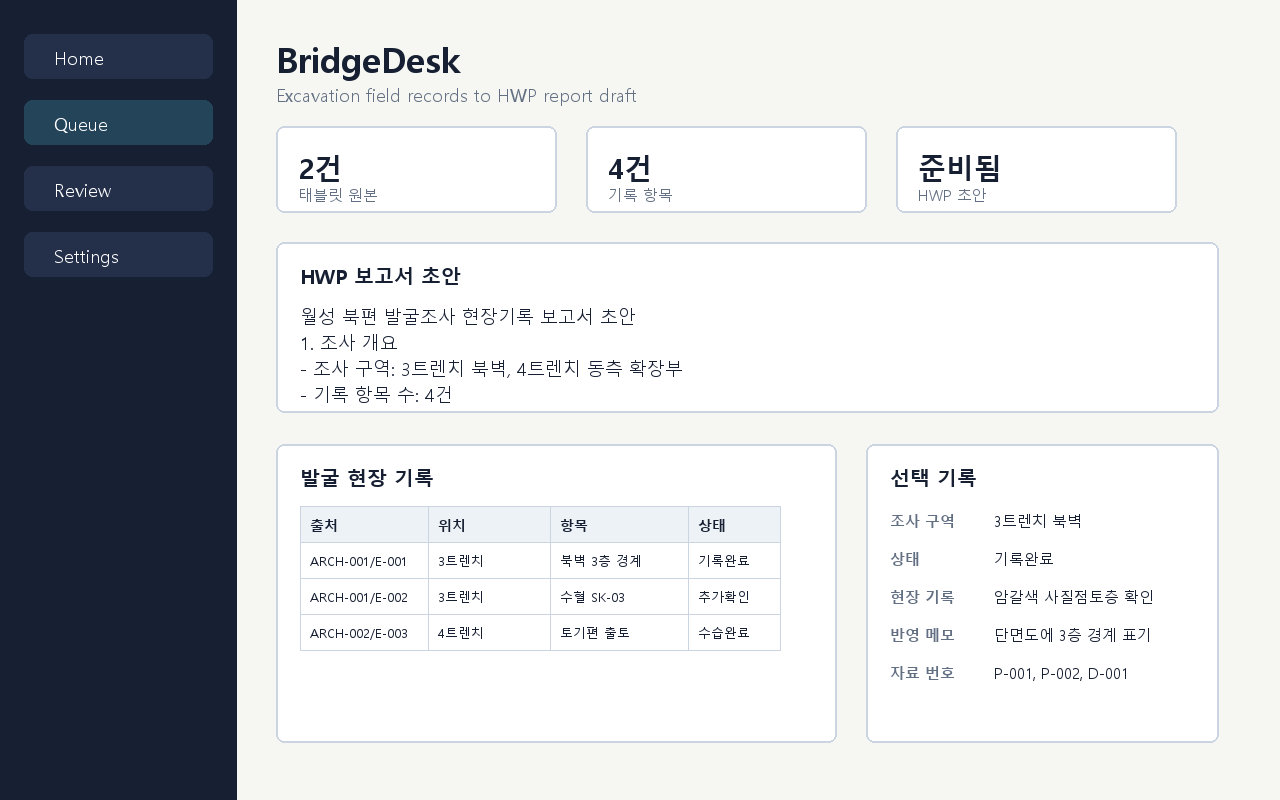
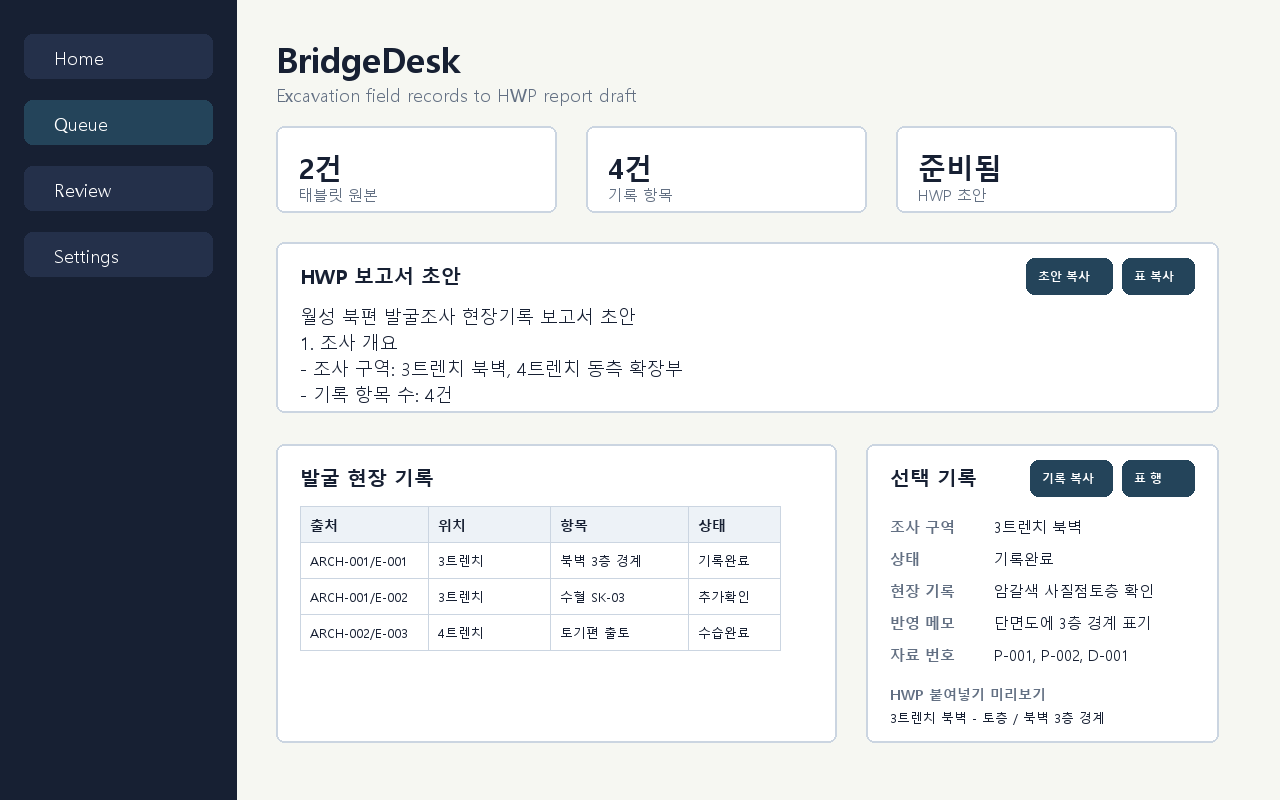
Add BridgeDesk clipboard copy workflow

diff --git a/tools/bridgedesk/compatdesk/app.py b/tools/bridgedesk/compatdesk/app.py
@@ -9,7 +9,12 @@ from pathlib import Path
 from .field_data import DEFAULT_TABLET_INBOX_PATH, ReportFinding, build_report_context, load_tablet_submissions
 from .layout_policy import LayoutPolicy, LayoutProfile, NavigationPattern
 from .models import DETAIL_FIELDS, NAV_ACTIONS, field_meta
-from .report_export import render_report_text
+from .report_export import (
+    render_finding_clipboard_text,
+    render_finding_table_row,
+    render_findings_table_text,
+    render_report_text,
+)
 from .theme import Theme, apply_theme
 
 
@@ -53,7 +58,12 @@ class BridgeDeskApp(tk.Tk):
         self.list_title: ttk.Label
         self.detail_title: ttk.Label
         self.report_title: ttk.Label
+        self.report_header: ttk.Frame
         self.report_text: tk.Text
+        self.detail_header: ttk.Frame
+        self.copy_title: ttk.Label
+        self.copy_text: tk.Text
+        self.clipboard_label: ttk.Label
         self.tree_scroll_x: ttk.Scrollbar
         self.tree = self._build_list_panel()
         self._build_header()
@@ -75,7 +85,7 @@ class BridgeDeskApp(tk.Tk):
             text="태블릿 발굴 기록을 HWP 보고서 초안으로 정리",
             style="Subtle.TLabel",
         ).grid(row=1, column=0, sticky="w", pady=(4, 0))
-        ttk.Button(self.header, text="Sync", style="Accent.TButton", command=self._sync_detail).grid(row=0, column=1, rowspan=2, sticky="e")
+        ttk.Button(self.header, text="새로고침", style="Accent.TButton", command=self._sync_detail).grid(row=0, column=1, rowspan=2, sticky="e")
         configure_grid_weight(self.header, row=0, column=0)
 
     def _build_metrics(self) -> None:
@@ -93,8 +103,13 @@ class BridgeDeskApp(tk.Tk):
             self.metrics.grid_columnconfigure(index, weight=1, uniform="metrics")
 
     def _build_report_panel(self) -> None:
-        self.report_title = ttk.Label(self.report_panel, text="HWP 보고서 초안", style="Surface.TLabel")
+        self.report_header = ttk.Frame(self.report_panel, style="Surface.TFrame")
+        self.report_header.grid(row=0, column=0, sticky="ew")
+        self.report_title = ttk.Label(self.report_header, text="HWP 보고서 초안", style="Surface.TLabel")
         self.report_title.grid(row=0, column=0, sticky="w")
+        ttk.Button(self.report_header, text="초안 복사", command=self._copy_report).grid(row=0, column=1, sticky="e", padx=(8, 0))
+        ttk.Button(self.report_header, text="표 복사", command=self._copy_all_table).grid(row=0, column=2, sticky="e", padx=(8, 0))
+        self.report_header.grid_columnconfigure(0, weight=1)
         self.report_text = tk.Text(
             self.report_panel,
             height=7,
@@ -123,8 +138,13 @@ class BridgeDeskApp(tk.Tk):
         return tree
 
     def _build_detail_panel(self) -> None:
-        self.detail_title = ttk.Label(self.detail_panel, text="선택 기록", style="Surface.TLabel")
+        self.detail_header = ttk.Frame(self.detail_panel, style="Surface.TFrame")
+        self.detail_header.grid(row=0, column=0, columnspan=2, sticky="ew")
+        self.detail_title = ttk.Label(self.detail_header, text="선택 기록", style="Surface.TLabel")
         self.detail_title.grid(row=0, column=0, sticky="w")
+        ttk.Button(self.detail_header, text="기록 복사", command=self._copy_selected_finding).grid(row=0, column=1, sticky="e", padx=(8, 0))
+        ttk.Button(self.detail_header, text="표 행 복사", command=self._copy_selected_table_row).grid(row=0, column=2, sticky="e", padx=(8, 0))
+        self.detail_header.grid_columnconfigure(0, weight=1)
         for index, field in enumerate(DETAIL_FIELDS, start=1):
             caption = ttk.Label(self.detail_panel, text=field_meta(field).label, style="Muted.Surface.TLabel")
             value = ttk.Label(self.detail_panel, text="", style="Surface.TLabel", wraplength=320)
@@ -132,11 +152,27 @@ class BridgeDeskApp(tk.Tk):
             value.grid(row=index, column=1, sticky="nw")
             self.detail_captions[field] = caption
             self.detail_labels[field] = value
+        self.copy_title = ttk.Label(self.detail_panel, text="HWP 붙여넣기 미리보기", style="Muted.Surface.TLabel")
+        self.copy_text = tk.Text(
+            self.detail_panel,
+            height=7,
+            wrap="word",
+            borderwidth=0,
+            highlightthickness=1,
+            relief="flat",
+            font=("Malgun Gothic", 9),
+            foreground=self.theme.text,
+            background=self.theme.surface,
+            highlightbackground=self.theme.border,
+        )
         self.detail_panel.grid_columnconfigure(1, weight=1)
 
     def _build_status(self) -> None:
         self.profile_label = ttk.Label(self.status, text="", style="Subtle.TLabel")
         self.profile_label.grid(row=0, column=0, sticky="w")
+        self.clipboard_label = ttk.Label(self.status, text="복사 대기", style="Subtle.TLabel")
+        self.clipboard_label.grid(row=0, column=1, sticky="e")
+        self.status.grid_columnconfigure(0, weight=1)
 
     def _handle_resize(self, event: tk.Event[object]) -> None:
         if event.widget is not self:
@@ -246,12 +282,12 @@ class BridgeDeskApp(tk.Tk):
 
     def _layout_panels(self, profile: LayoutProfile) -> None:
         inset = profile.padding
-        self.report_title.grid_configure(padx=inset, pady=(inset, profile.gap // 2))
+        self.report_header.grid_configure(padx=inset, pady=(inset, profile.gap // 2))
         self.report_text.grid_configure(padx=inset, pady=(0, inset))
         self.list_title.grid_configure(padx=inset, pady=(inset, profile.gap // 2))
         self.tree.grid_configure(padx=inset, pady=(0, inset))
         self.tree_scroll_x.grid_configure(padx=inset, pady=(0, inset))
-        self.detail_title.grid_configure(padx=inset, pady=(inset, profile.gap // 2))
+        self.detail_header.grid_configure(padx=inset, pady=(inset, profile.gap // 2))
         ttk.Style(self).configure("Treeview", rowheight=profile.touch_target)
 
     def _layout_detail(self, profile: LayoutProfile) -> None:
@@ -263,6 +299,9 @@ class BridgeDeskApp(tk.Tk):
                 caption.grid(row=index * 2 - 1, column=0, sticky="nw", padx=inset, pady=(profile.gap // 2, 0))
                 label.grid(row=index * 2, column=0, sticky="new", padx=inset, pady=(2, profile.gap // 3))
                 label.configure(wraplength=max(260, profile.width - profile.navigation_size - 80))
+            copy_row = len(fields) * 2 + 1
+            self.copy_title.grid(row=copy_row, column=0, sticky="w", padx=inset, pady=(profile.gap, 2))
+            self.copy_text.grid(row=copy_row + 1, column=0, sticky="nsew", padx=inset, pady=(0, inset))
             self.detail_panel.grid_columnconfigure(0, weight=1)
             self.detail_panel.grid_columnconfigure(1, weight=0)
             return
@@ -272,6 +311,9 @@ class BridgeDeskApp(tk.Tk):
             caption.grid(row=index, column=0, sticky="nw", padx=inset, pady=(profile.gap // 3, 0))
             label.grid(row=index, column=1, sticky="new", padx=inset, pady=(profile.gap // 3, 0))
             label.configure(wraplength=360)
+        copy_row = len(fields) + 1
+        self.copy_title.grid(row=copy_row, column=0, columnspan=2, sticky="w", padx=inset, pady=(profile.gap, 2))
+        self.copy_text.grid(row=copy_row + 1, column=0, columnspan=2, sticky="nsew", padx=inset, pady=(0, inset))
         self.detail_panel.grid_columnconfigure(0, weight=0)
         self.detail_panel.grid_columnconfigure(1, weight=1)
 
@@ -303,6 +345,10 @@ class BridgeDeskApp(tk.Tk):
         finding = self.finding_by_id[self.selected_finding_id.get()]
         for field, label in self.detail_labels.items():
             label.configure(text=_finding_value(finding, field))
+        self.copy_text.configure(state="normal")
+        self.copy_text.delete("1.0", "end")
+        self.copy_text.insert("1.0", render_finding_clipboard_text(finding, self._selected_finding_index() + 1))
+        self.copy_text.configure(state="disabled")
 
     def _sync_report_preview(self) -> None:
         self.report_text.configure(state="normal")
@@ -317,6 +363,33 @@ class BridgeDeskApp(tk.Tk):
                 f"{profile.width}x{profile.height} | action:{self.active_action_id.get()}"
             )
         )
+
+    def _copy_report(self) -> None:
+        self._copy_to_clipboard(render_report_text(self.report_context), "전체 초안을 복사했습니다")
+
+    def _copy_all_table(self) -> None:
+        self._copy_to_clipboard(render_findings_table_text(self.report_context), "전체 표를 복사했습니다")
+
+    def _copy_selected_finding(self) -> None:
+        finding = self.finding_by_id[self.selected_finding_id.get()]
+        self._copy_to_clipboard(render_finding_clipboard_text(finding, self._selected_finding_index() + 1), "선택 기록을 복사했습니다")
+
+    def _copy_selected_table_row(self) -> None:
+        finding = self.finding_by_id[self.selected_finding_id.get()]
+        self._copy_to_clipboard(render_finding_table_row(finding), "선택 표 행을 복사했습니다")
+
+    def _copy_to_clipboard(self, text: str, message: str) -> None:
+        self.clipboard_clear()
+        self.clipboard_append(text)
+        self.update()
+        self.clipboard_label.configure(text=message)
+
+    def _selected_finding_index(self) -> int:
+        selected_id = self.selected_finding_id.get()
+        for index, finding in enumerate(self.findings):
+            if finding.source_ref == selected_id:
+                return index
+        return 0
 
 
 def configure_grid_weight(widget: tk.Misc, row: int, column: int) -> None:

diff --git a/tools/bridgedesk/compatdesk/report_export.py b/tools/bridgedesk/compatdesk/report_export.py
@@ -39,6 +39,42 @@ def render_report_text(context: ReportContext) -> str:
     return "\n".join(lines).strip() + "\n"
 
 
+def render_finding_clipboard_text(finding: ReportFinding, index: int | None = None) -> str:
+    prefix = f"{index}) " if index is not None else ""
+    lines = [
+        f"{prefix}{finding.site_name} - {finding.section} / {finding.item}",
+        f"- 상태: {finding.status}",
+        f"- 기준고/관찰값: {finding.measured_value or '-'}",
+        f"- 현장 기록: {finding.memo or '-'}",
+        f"- 보고서 반영 메모: {finding.recommendation or '-'}",
+        f"- 사진/도면/유물: {finding.photo_text}",
+        f"- 출처: {finding.source_ref}, 기록자 {finding.inspector}, 단말 {finding.device_id}",
+    ]
+    return "\n".join(lines).strip() + "\n"
+
+
+def render_finding_table_row(finding: ReportFinding) -> str:
+    return "\t".join(
+        (
+            finding.source_ref,
+            finding.site_name,
+            finding.section,
+            finding.item,
+            finding.status,
+            finding.measured_value,
+            finding.memo,
+            finding.recommendation,
+            finding.photo_text,
+        )
+    )
+
+
+def render_findings_table_text(context: ReportContext) -> str:
+    header = "\t".join(("출처", "조사 구역", "구분", "항목", "상태", "기준고/관찰값", "현장 기록", "보고서 반영 메모", "사진/도면/유물"))
+    rows = [render_finding_table_row(finding) for finding in context.findings]
+    return "\n".join((header, *rows)).strip() + "\n"
+
+
 def render_report_html(context: ReportContext) -> str:
     rows = "\n".join(_finding_row(finding) for finding in context.findings)
     return f"""<!doctype html>
@@ -106,16 +142,7 @@ def write_report_package(context: ReportContext, output_dir: Path) -> tuple[Path
 
 
 def _finding_text(index: int, finding: ReportFinding) -> list[str]:
-    return [
-        "",
-        f"{index}) {finding.site_name} - {finding.section} / {finding.item}",
-        f"- 상태: {finding.status}",
-        f"- 기준고/관찰값: {finding.measured_value or '-'}",
-        f"- 현장 기록: {finding.memo or '-'}",
-        f"- 보고서 반영 메모: {finding.recommendation or '-'}",
-        f"- 사진/도면/유물: {finding.photo_text}",
-        f"- 출처: {finding.source_ref}, 기록자 {finding.inspector}, 단말 {finding.device_id}",
-    ]
+    return ["", *render_finding_clipboard_text(finding, index).strip().splitlines()]
 
 
 def _finding_row(finding: ReportFinding) -> str:

diff --git a/tools/bridgedesk/tests/test_field_data.py b/tools/bridgedesk/tests/test_field_data.py
@@ -6,7 +6,14 @@ from pathlib import Path
 import shutil
 
 from compatdesk.field_data import DEFAULT_TABLET_DATA_PATH, build_report_context, load_tablet_submissions
-from compatdesk.report_export import render_report_html, render_report_text, write_report_package
+from compatdesk.report_export import (
+    render_finding_clipboard_text,
+    render_finding_table_row,
+    render_findings_table_text,
+    render_report_html,
+    render_report_text,
+    write_report_package,
+)
 
 
 class FieldDataTests(unittest.TestCase):
@@ -33,6 +40,22 @@ class FieldDataTests(unittest.TestCase):
 
         self.assertIn("<table>", html)
         self.assertIn("수혈 유구 SK-03", html)
+
+    def test_selected_finding_clipboard_text_is_hwp_ready(self) -> None:
+        context = build_report_context(load_tablet_submissions(DEFAULT_TABLET_DATA_PATH))
+        snippet = render_finding_clipboard_text(context.findings[0], index=1)
+
+        self.assertIn("1) 3트렌치 북벽 - 토층 / 북벽 3층 경계", snippet)
+        self.assertIn("보고서 반영 메모", snippet)
+        self.assertIn("P-001, P-002, D-001", snippet)
+
+    def test_finding_table_text_uses_tabs_for_hwp_paste(self) -> None:
+        context = build_report_context(load_tablet_submissions(DEFAULT_TABLET_DATA_PATH))
+        table = render_findings_table_text(context)
+        row = render_finding_table_row(context.findings[0])
+
+        self.assertIn("출처\t조사 구역\t구분", table)
+        self.assertIn("ARCH-2026-0706-001/E-001\t3트렌치 북벽\t토층", row)
 
     def test_report_package_exports_copy_ready_assets(self) -> None:
         context = build_report_context(load_tablet_submissions(DEFAULT_TABLET_DATA_PATH))

diff --git a/tools/bridgedesk/tools/make_visual_assets.py b/tools/bridgedesk/tools/make_visual_assets.py
@@ -60,6 +60,8 @@ def make_desktop_screenshot() -> None:
 
     draw_card(draw, (276, 242, 1218, 412))
     draw.text((300, 262), "HWP 보고서 초안", fill="#172033", font=font(20, bold=True))
+    draw_button(draw, (1026, 258, 1112, 294), "초안 복사")
+    draw_button(draw, (1122, 258, 1194, 294), "표 복사")
     preview_lines = [
         "월성 북편 발굴조사 현장기록 보고서 초안",
         "1. 조사 개요",
@@ -81,6 +83,8 @@ def make_desktop_screenshot() -> None:
 
     draw_card(draw, (866, 444, 1218, 742))
     draw.text((890, 464), "선택 기록", fill="#172033", font=font(20, bold=True))
+    draw_button(draw, (1030, 460, 1112, 496), "기록 복사")
+    draw_button(draw, (1122, 460, 1194, 496), "표 행")
     detail = [
         ("조사 구역", "3트렌치 북벽"),
         ("상태", "기록완료"),
@@ -89,9 +93,12 @@ def make_desktop_screenshot() -> None:
         ("자료 번호", "P-001, P-002, D-001"),
     ]
     for index, (key, value) in enumerate(detail):
-        y = 510 + index * 38
+        y = 516 + index * 32
         draw.text((890, y), key, fill="#637083", font=font(15, bold=True))
         draw.text((994, y), value, fill="#172033", font=font(15))
+
+    draw.text((890, 684), "HWP 붙여넣기 미리보기", fill="#637083", font=font(14, bold=True))
+    draw.text((890, 708), "3트렌치 북벽 - 토층 / 북벽 3층 경계", fill="#172033", font=font(13))
 
     image.save(out_dir / "desktop-report.png")
 
@@ -154,6 +161,11 @@ def make_tablet_screenshot() -> None:
 
 def draw_card(draw: ImageDraw.ImageDraw, box: tuple[int, int, int, int]) -> None:
     draw.rounded_rectangle(box, radius=8, fill="#ffffff", outline="#cbd5e1", width=2)
+
+
+def draw_button(draw: ImageDraw.ImageDraw, box: tuple[int, int, int, int], label: str) -> None:
+    draw.rounded_rectangle(box, radius=8, fill="#24445a")
+    draw.text((box[0] + 12, box[1] + 9), label, fill="#ffffff", font=font(12, bold=True))
 
 
 def draw_table(

diff --git a/tools/bridgedesk/README.md b/tools/bridgedesk/README.md
@@ -13,7 +13,8 @@
 1. 받은 폴더를 원하는 위치에 압축 해제합니다.
 2. `START_DESKTOP.cmd`를 더블클릭합니다.
 3. 바탕화면 바로가기가 필요하면 `INSTALL_DESKTOP_SHORTCUTS.cmd`를 더블클릭합니다.
-4. HWP 보고서용 파일을 만들려면 `EXPORT_HWP_REPORT.cmd`를 더블클릭합니다.
+4. HWP를 열어두고 BridgeDesk에서 필요한 기록의 `기록 복사`, `표 행 복사`, `초안 복사` 버튼을 눌러 붙여넣습니다.
+5. 파일로 한 번에 내보내려면 `EXPORT_HWP_REPORT.cmd`를 더블클릭합니다.
 
 `dist\BridgeDesk\BridgeDesk.exe`가 있으면 `START_DESKTOP.cmd`는 그 실행 파일을 먼저 엽니다. 실행 파일이 아직 없으면 설치된 Python으로 프로그램을 실행합니다.
 
@@ -42,6 +43,17 @@
 - `INSTALL_DESKTOP_SHORTCUTS.cmd`: 바탕화면 바로가기 생성
 - `BUILD_DESKTOP_EXE.cmd`: 독립 실행형 `BridgeDesk.exe`와 `BridgeDeskTabletServer.exe` 생성
 - `BUILD_USER_PACKAGE.cmd`: 사용자 배포용 zip 생성
+
+## HWP에 복사해서 쓰기
+
+데스크톱 프로그램은 HWP 옆에 띄워두고 쓰는 클립보드 패널처럼 동작합니다.
+
+- `초안 복사`: 전체 보고서 초안을 복사
+- `표 복사`: 전체 현장 기록을 탭 구분 표로 복사
+- `기록 복사`: 선택한 기록 하나를 문단 형태로 복사
+- `표 행 복사`: 선택한 기록 하나를 HWP 표에 붙여넣기 쉬운 한 줄로 복사
+
+선택 기록 아래의 `HWP 붙여넣기 미리보기` 영역에서 실제 복사될 문장을 먼저 확인할 수 있습니다.
 
 ## 보고서 파일 위치
 

diff --git a/tools/bridgedesk/docs/INSTALL_DESKTOP.md b/tools/bridgedesk/docs/INSTALL_DESKTOP.md
@@ -29,6 +29,15 @@
 
 ## HWP 보고서용 파일 만들기
 
+BridgeDesk 창을 HWP 옆에 띄워두고 필요한 내용을 바로 복사할 수 있습니다.
+
+- `초안 복사`: 전체 보고서 초안 복사
+- `표 복사`: 전체 기록을 HWP 표에 붙여넣기 쉬운 탭 구분 형식으로 복사
+- `기록 복사`: 선택한 발굴 기록을 문단으로 복사
+- `표 행 복사`: 선택한 발굴 기록을 표 한 줄로 복사
+
+파일로 묶어서 전달해야 할 때는 아래 절차를 사용합니다.
+
 1. `EXPORT_HWP_REPORT.cmd`를 더블클릭합니다.
 2. `exports\report-draft` 폴더가 열립니다.
 3. 아래 파일을 사용합니다.

diff --git a/docs/korean-fieldwork/bridgedesk-installation.md b/docs/korean-fieldwork/bridgedesk-installation.md
@@ -10,6 +10,8 @@ BridgeDesk는 태블릿 발굴 현장기록을 데스크톱에서 검수하고 H
 - `START_BRIDGEDESK_TABLET_SERVER.cmd`: 태블릿 입력 화면 서버 실행
 - `EXPORT_BRIDGEDESK_HWP_REPORT.cmd`: HWP 보고서 작성용 TXT/HTML/CSV/JSON 생성
 
+데스크톱 화면에서는 HWP 옆에 BridgeDesk를 띄워두고 `초안 복사`, `표 복사`, `기록 복사`, `표 행 복사` 버튼으로 필요한 내용을 바로 붙여넣을 수 있습니다.
+
 자세한 안내는 `tools/bridgedesk/README.md`와 `tools/bridgedesk/docs/INSTALL_DESKTOP.md`, `tools/bridgedesk/docs/INSTALL_TABLET.md`를 확인합니다.
 
 ## 태블릿 자료 흐름